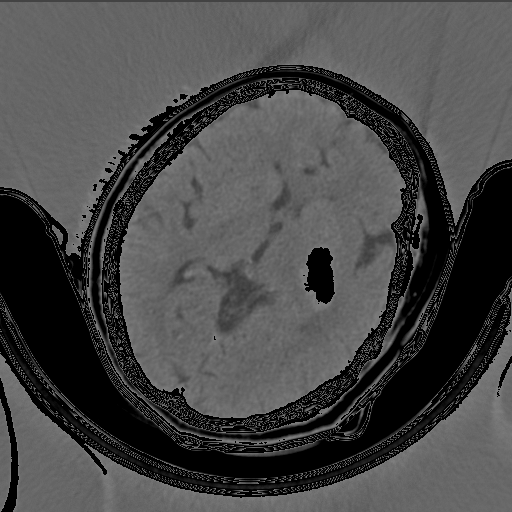
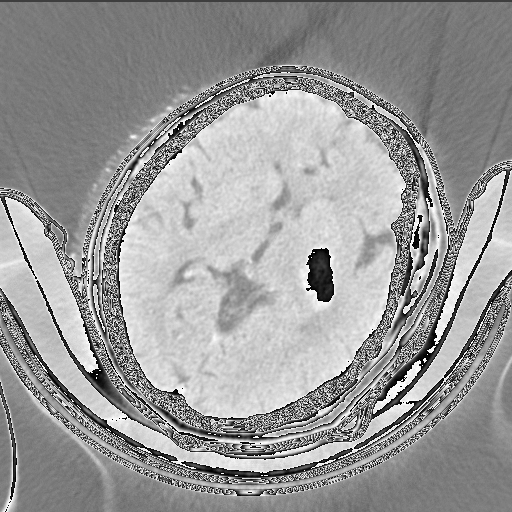
2022.11.16 18:30 ？？？

diff --git a/DCM_data_pretreatment/preprocess_skull_division.py b/DCM_data_pretreatment/preprocess_skull_division.py
@@ -1,19 +1,21 @@
 import argparse
 import math
+import os
+import time
 
+import yaml
 from cv2.cv2 import *
 import numpy as np
 
 
-def SkullDivision(src_image):
+def SkullDivision(src_image, m_threshold):
     """
     the function to Detach the skull for single image
     :param src_image: numpy array(1 channel in range [0,255])
     :return: image after process
     """
-    img = src_image.copy()
-    imshow("source", src_image)
-    threshold(img, 50, 255, THRESH_BINARY, img)
+    src_img = np.array(src_image, copy=True)
+    _, img = threshold(src_img, m_threshold, 255, THRESH_BINARY)
 
     morphologyEx(img, MORPH_OPEN, (7, 7), dst=img, iterations=5)
 
@@ -36,10 +38,9 @@ def SkullDivision(src_image):
     for i in range(1, len(contours)):
         img = fillPoly(img, [contours[i]], 255)
 
+    # dst = np.zeros((src_image.shape[0], src_image.shape[1], 1), np.uint8)
     dst = src_image.copy()
     dst[img != 255] = 0
-    imshow("out", dst)
-    waitKey(0)
     return dst
 
 
@@ -49,15 +50,58 @@ def get_distance(x, y):
     return math.sqrt(dx * dx + dy * dy)
 
 
-def run(src_image_path):
-    src_image = imread(src_image_path, CV_8UC1)
-    SkullDivision(src_image)
+def run(file_path, mode, m_threshold):
+    """
+    mode 0: single image
+    mode 1: dir
+    """
+    if mode == 0:
+        src_image = imread(file_path, CV_8UC1)
+        print(src_image)
+        SkullDivision(src_image, m_threshold)
+    else:
+        if not os.path.exists("./output_skull"):
+            os.mkdir("./output_skull")
+        files = os.listdir(file_path)
+        for patient_name in files:
+            index = 0
+            os.mkdir("./output_skull/" + patient_name)
+            datas = os.listdir(file_path + "/" + patient_name)
+            total = len(datas)
+            for data in datas:
+                index += 1
+                start_time = time.perf_counter()
+                path = file_path + "/" + patient_name + "/" + data
+                src = imread(path, CV_8UC1)
+                dst = SkullDivision(src, m_threshold)
+                imwrite("./output_skull/" + patient_name + "/" + data, dst)
+                print("process: " + patient_name + "(%d/%d)" % (index, total),
+                      "(%.2fms)" % ((time.perf_counter() - start_time) * 1000))
+            waitKey(0)
+        print("complete!")
 
 
 if __name__ == "__main__":
     # Adding necessary input arguments
     parser = argparse.ArgumentParser(description="for test, written by Windbell")
-    parser.add_argument("--input_path", default="./sample/sample_dcm.png", help="test dcm file")
+    parser.add_argument("--input_path", default="./output", help="test dcm file or the dir in ("
+                                                                                "here)/patient_name ... etc")
+    parser.add_argument("--as_dir", default=True, help="process all image in a dir")
+    parser.add_argument("--threshold", default=60, help="the threshold to seg image")
+    parser.add_argument('-y', '--yaml', default=True, help="use yaml to load hyps")
     args = parser.parse_args()
     print(args)
-    run(args.input_path)
+    if args.as_dir:
+        if args.yaml:
+            with open("./settings/test.yaml", "r") as ff:
+                setting = yaml.load(ff, Loader=yaml.FullLoader)
+            run(args.input_path, 1, setting['threshold'])
+        else:
+            run(args.input_path, 1, args.threshold)
+    else:
+        if args.yaml:
+            with open("./settings/test.yaml", "r") as ff:
+                setting = yaml.load(ff, Loader=yaml.FullLoader)
+            run(args.input_path, 0, setting['threshold'])
+        else:
+            run(args.input_path, 0, args.threshold)

diff --git a/DCM_data_pretreatment/preprocess_format_convert.py b/DCM_data_pretreatment/preprocess_format_convert.py
@@ -6,6 +6,8 @@ import numpy as np
 import png
 import time
 
+import yaml
+
 
 def ConvertAllDCMs(file_path, width, level):
     """
@@ -17,7 +19,7 @@ def ConvertAllDCMs(file_path, width, level):
     names_with_gcs = os.listdir(file_path)
     for name in names_with_gcs:
         all_image_names = []
-
+        output_name = name[:12].replace(' ','_')
         # cd to dcm dir
         temp_path = file_path + "/" + name
         temp_names = os.listdir(temp_path)
@@ -31,8 +33,8 @@ def ConvertAllDCMs(file_path, width, level):
         names = os.listdir(temp_path)
         if len(names) == 0:
             continue
-        if not os.path.exists("./output/" + name):
-            os.mkdir("./output/" + name)
+        if not os.path.exists("./output/" + output_name):
+            os.mkdir("./output/" + output_name)
 
         for image_name in names:
             index = image_name.rfind('.')
@@ -46,13 +48,15 @@ def ConvertAllDCMs(file_path, width, level):
             start_time = time.perf_counter()
             # set src/dst path
             src_path = temp_path + "/" + image_name + ".dcm"
-            dst_path = "./output/" + name + "/" + image_name + ".png"
+            dst_path = "./output/" + output_name + "/" + str(index) + ".png"
 
             dst = convert_dcm(src_path, width, level)
             w = png.Writer(dst.shape[1], dst.shape[0], greyscale=True)
             object_file = open(dst_path, 'wb')
             w.write(object_file, dst)
-            print("process: " + name + "(%d/%d)" % (index, total), "(%.2fms)" % ((time.perf_counter() - start_time) * 1000))
+            print("process: " + name + "(%d/%d)" % (index, total),
+                  "(%.2fms)" % ((time.perf_counter() - start_time) * 1000))
+        exit(0)
 
 
 def convert_dcm(src_path, width, level):
@@ -70,7 +74,7 @@ def convert_dcm(src_path, width, level):
     min_val = (2 * window_level - window_width) / 2.0 + 0.5
     max_val = (2 * window_level + window_width) / 2.0 + 0.5
     dst_image = (src - min_val) * 255.0 / float(max_val - min_val)
-    dst_image = np.int8(dst_image)
+    dst_image = np.uint8(dst_image)
     return dst_image
 
 
@@ -79,8 +83,16 @@ if __name__ == '__main__':
     parser = argparse.ArgumentParser(description="for test, written by Windbell")
     parser.add_argument("--input_path", default="C:/Users/49804/Desktop/文章/大三/创新实践/预后不良/预后不良",
                         help="the dir to (here)/patient_name_gcs_etc")
+    parser.add_argument('-y', '--yaml', default=True, help="use yaml to load hyps")
     parser.add_argument("--window_level", type=int, default=50, help="the level in W/L algorithm in CT")
     parser.add_argument("--window_width", type=int, default=100, help="the width in W/L algorithm in CT")
     args = parser.parse_args()
     print(args)
-    ConvertAllDCMs(args.input_path, args.window_width, args.window_level)
+    if args.yaml:
+        with open("./settings/test.yaml", "r") as ff:
+            setting = yaml.load(ff, Loader=yaml.FullLoader)
+        print("use yaml: window_width = " + str(setting['window_width']) + "   window_level = "
+              + str(setting['window_level']))
+        ConvertAllDCMs(args.input_path, int(setting['window_width']), int(setting['window_level']))
+    else:
+        ConvertAllDCMs(args.input_path, args.window_width, args.window_level)

diff --git a/DCM_data_pretreatment/visualize_adjust_Image.py b/DCM_data_pretreatment/visualize_adjust_Image.py
@@ -1,38 +1,58 @@
 import argparse
 
 import numpy as np
+import yaml
+import numpy
 from cv2.cv2 import *
 from preprocess_format_convert import convert_dcm
+from preprocess_skull_division import SkullDivision
 
 
 def callback(value):
     pass
 
 
-def run(file_path):
+def run(file_path, yaml_path):
     namedWindow("preview", WINDOW_AUTOSIZE)
     namedWindow("source", WINDOW_AUTOSIZE)
+    namedWindow("division", WINDOW_AUTOSIZE)
     src = convert_dcm(file_path, 0, 0)
     imshow("source", src)
     imshow("preview", src)
-    createTrackbar("window_width", "preview", 0, 200, callback)
-    createTrackbar("window_level", "preview", 0, 200, callback)
+    imshow("division", src)
+
+    with open("./settings/default.yaml", "r") as ff:
+        setting = yaml.load(ff, Loader=yaml.FullLoader)
+
+    createTrackbar("window_width", "preview", setting['window_width'], 200, callback)
+    createTrackbar("window_level", "preview", setting['window_level'], 200, callback)
+    createTrackbar("threshold", "division", setting['threshold'], 255, callback)
     while True:
         width = getTrackbarPos("window_width", "preview")
         level = getTrackbarPos("window_level", "preview")
+        threshold_m = int(getTrackbarPos("threshold", "division"))
         img = convert_dcm(file_path, width, level)
         imshow("preview", img)
+        src = np.array(img, copy=True)
+        dst = SkullDivision(src, threshold_m)
+        imshow("division", dst)
         key = waitKey(10)
         if key & 0xFF == ord('q'):
             break
         if key & 0xFF == ord('s'):
             imwrite("./sample/sample_dcm.png", img)
+            setting['window_width'] = width
+            setting['window_level'] = level
+            setting['threshold'] = threshold_m
+            with open(yaml_path, "w") as fw:
+                fw.write(yaml.dump(setting))
 
 
 if __name__ == "__main__":
     # Adding necessary input arguments
     parser = argparse.ArgumentParser(description="for test, visualizer, written by Windbell")
     parser.add_argument("--input_path", default="./sample/sample_dcm.dcm", help="test dcm file")
+    parser.add_argument("--output_yaml_path", default="./settings/test.yaml", help="test dcm file")
     args = parser.parse_args()
     print(args)
-    run(args.input_path)
+    run(args.input_path, args.output_yaml_path)
